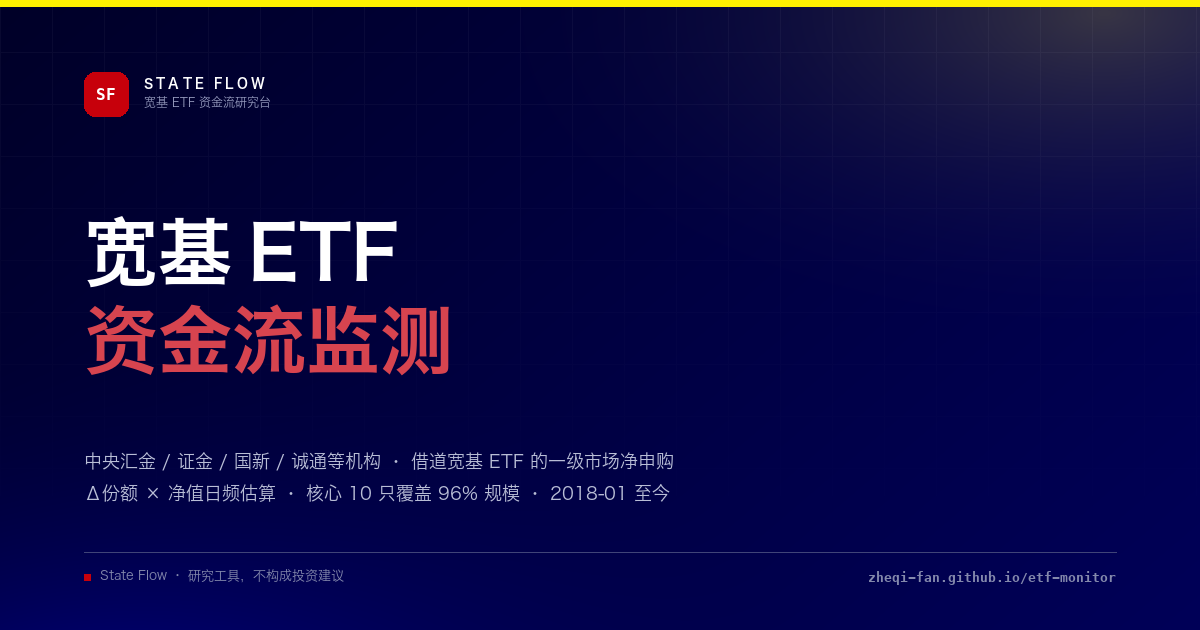
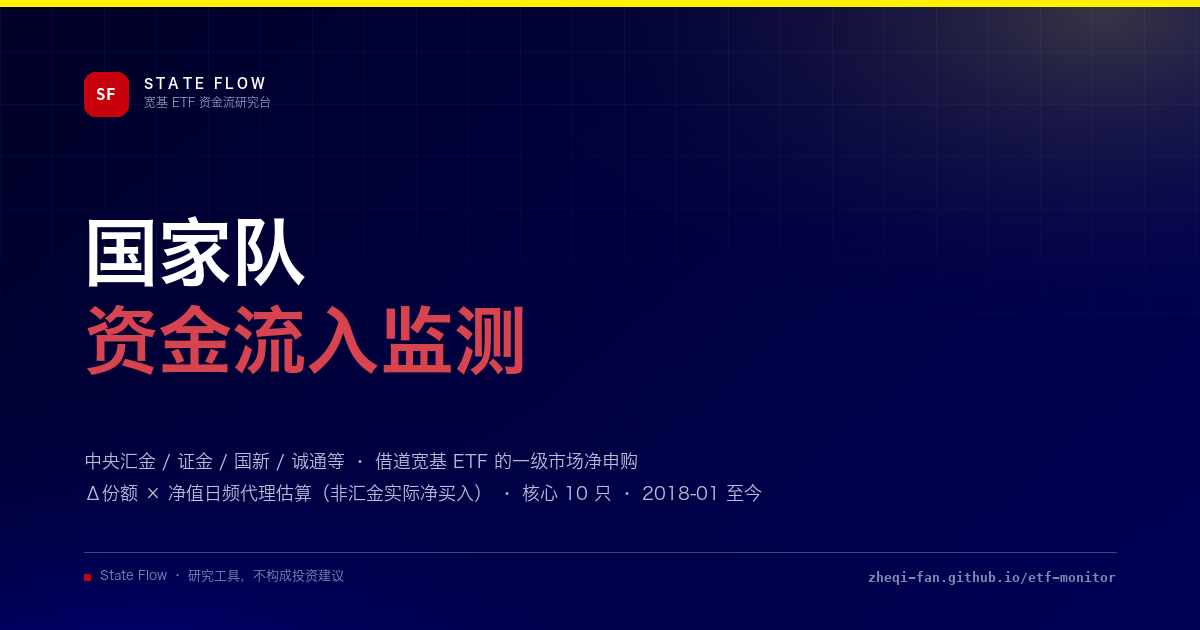
revert(home): 恢复「国家队资金流入」的表述，但把代理口径写进标题层
标题、H1、分享卡、页脚、README 回到「国家队资金流入监测」，
同时把「这是代理口径」放到读者第一眼就能看到的位置，而不是只藏在方法页。

## 表述思路

「国家队」是读者真正会用的词，不用反而增加理解成本。它的问题不在用词，
而在**把推断写成事实**：本页测的是 ETF 份额变动，识别不了持有人，
所以「国家队买入 X 亿」是一个不可证实的断言，而「宽基 ETF 净流入 X 亿」
是可证的。所以按「标题用统称、数据用口径名、结论用疑似」三层分开：

- 标题层：国家队资金流入监测（读者语言）
- 口径层：ETF 申购代理估算 · 非汇金实际净买入（一句话紧跟在标题/结论旁）
- 数据层：正文一律叫「宽基 ETF 净流入 / 核心池净申购」，不叫「国家队买入」
- 结论层：需要指认主体时用「疑似国家队进场」

## 具体改动

- index.html：title / og:title / twitter:title / description / H1（国家队 · 资金流入监测）/
  页脚 / 一句话结论旁的限定语（改为「ETF 申购代理口径 · 非汇金实际净买入」）
- 全站品牌副标题与浏览器标题后缀统一为「国家队资金流入监测」（7 个页面）
- 口径说明：把「中央汇金 / 证金 …大额进场」改成「所谓“国家队”（中央汇金 / 证金 / 国新 / 诚通等）」
- method.html 结论边界：补一句「国家队是媒体统称、不是法定主体；本页测份额变动、识别不了持有人」
- news_source.py 标签「大额机构」→「国家队」（正则本来就是 国家队）；
  app.js 的 TAG_CLS 保留旧 key，避免历史数据配色掉回默认
- tools/make_preview.py：重绘分享卡（国家队 / 资金流入监测 + 代理口径说明行），
  已重新生成 assets/preview.png（1200×630）
- README 标题与开头，加一条口径提醒

没有改动任何计算逻辑。

Changed region(s): [[0.185, 0.6937, 0.6167, 0.8143], [0.0617, 0.3317, 0.3392, 0.4524], [0.2467, 0.4825, 0.4625, 0.6032]]

diff --git a/index.html b/index.html
@@ -3,11 +3,11 @@
 <head>
 <meta charset="utf-8">
 <meta name="viewport" content="width=device-width,initial-scale=1">
-<title>ETF 资金流监测 · State Flow</title>
-<meta name="description" content="只看股票（指数）宽基 ETF：用份额变动×净值，日频跟踪中央汇金/证金等机构资金借道 ETF 的净申购。核心 10 只覆盖 96% 规模，含历史、信号与结构。">
+<title>国家队资金流入监测 · State Flow</title>
+<meta name="description" content="“国家队”资金流入监测：用宽基 ETF 份额变动×净值，日频估算中央汇金/证金/国新/诚通等机构借道 ETF 的一级市场净申购。这是代理口径，不等于汇金实际净买入。核心 10 只覆盖 96% 规模。">
 <meta name="theme-color" content="#000066">
 <meta property="og:type" content="website">
-<meta property="og:title" content="ETF 资金流监测 · State Flow">
+<meta property="og:title" content="国家队资金流入监测 · State Flow">
 <meta property="og:description" content="核心 10 只股票宽基 ETF，日频估算机构一级市场净申购；20 日滚动为主信号，附结构、溢价与历史分位。">
 <meta property="og:url" content="https://zheqi-fan.github.io/etf-monitor/">
 <meta property="og:site_name" content="State Flow">
@@ -16,7 +16,7 @@
 <meta property="og:image:width" content="1200">
 <meta property="og:image:height" content="630">
 <meta name="twitter:card" content="summary_large_image">
-<meta name="twitter:title" content="ETF 资金流监测 · State Flow">
+<meta name="twitter:title" content="国家队资金流入监测 · State Flow">
 <meta name="twitter:description" content="核心 10 只股票宽基 ETF，日频估算机构一级市场净申购；20 日滚动为主信号，附结构、溢价与历史分位。">
 <meta name="twitter:image" content="https://zheqi-fan.github.io/etf-monitor/assets/preview.png">
 <link rel="icon" href="assets/favicon.svg" type="image/svg+xml">
@@ -31,7 +31,7 @@
     <div class="hero-top">
       <div class="brand">
         <span class="brand-mark">SF</span>
-        <div><b>STATE FLOW</b><small>宽基 ETF 资金流研究台</small></div>
+        <div><b>STATE FLOW</b><small>国家队资金流入监测</small></div>
       </div>
       <div class="hero-meta">
         <span class="pill"><i class="dot"></i>数据截至 <b id="asof">—</b> 收盘</span>
@@ -42,7 +42,7 @@
     <div class="hero-main">
       <div class="hero-copy">
         <p class="eyebrow">Central Huijin · CSF · Broad-base Equity ETF Creation</p>
-        <h1>宽基 ETF<br><em>资金流监测</em></h1>
+        <h1>国家队<br><em>资金流入监测</em></h1>
       </div>
 
       <aside class="signal-card">
@@ -74,13 +74,13 @@
   <section class="takeaway" aria-labelledby="takeawayLabel">
     <span class="takeaway-label" id="takeawayLabel">一句话结论</span>
     <p id="takeawayText">加载中…</p>
-    <span class="takeaway-note">代理指标，非汇金实际净买入</span>
+    <span class="takeaway-note">ETF 申购代理口径 · 非汇金实际净买入</span>
   </section>
 
   <section class="brief" aria-label="指标说明">
     <span class="brief-label">口径</span>
     <p class="brief-text">
-      中央汇金 / 证金 / 国新 / 诚通等机构大额进场通常走 ETF <b>一级市场申购</b>，这会直接抬高基金总份额。本页用
+      所谓“国家队”（中央汇金 / 证金 / 国新 / 诚通等）大额进场通常走 ETF <b>一级市场申购</b>，这会直接抬高基金总份额。本页用
       <b>Δ份额 × 净值</b> 日频估算“新钱”规模，并叠加份额、溢价与市场成交校验。<br>
       只看 <b>股票（指数）宽基 ETF</b> · 核心 <b id="coverCount">10</b> 只覆盖 96% 规模 · <b id="rangeText">2018-01 至今</b>
     </p>
@@ -281,13 +281,13 @@
     <details class="events">
       <summary>新闻线索 · 新浪财经 7×24 自动筛选（点击折叠）</summary>
       <div class="evt-list" id="newsList"></div>
-      <p class="evt-note">按相关性打分筛选：<em class="ntag t0">汇金/证金/大额机构</em><em class="ntag t1">核心池/宽基ETF/申赎</em><em class="ntag t2">货币宽松/监管</em>；无关条目直接丢弃。仅作线索参考，未核实为官方事件。</p>
+      <p class="evt-note">按相关性打分筛选：<em class="ntag t0">汇金/证金/国家队</em><em class="ntag t1">核心池/宽基ETF/申赎</em><em class="ntag t2">货币宽松/监管</em>；无关条目直接丢弃。仅作线索参考，未核实为官方事件。</p>
     </details>
   </section>
 
   <footer>
     <div>
-      <b>State Flow · ETF 资金流监测</b><br>
+      <b>State Flow · 国家队资金流入监测</b><br>
       本页为研究工具，不构成任何投资建议。数据可能存在修订、缺失或口径差异，请以交易所及基金公司公告为准。
       <div class="build">版本 <span id="version">—</span> · 主源 <span id="dataline">Tushare</span> · 静态页面，无外部追踪脚本</div>
     </div>

diff --git a/method.html b/method.html
@@ -3,7 +3,7 @@
 <head>
 <meta charset="utf-8">
 <meta name="viewport" content="width=device-width,initial-scale=1">
-<title>技术细节 · ETF 资金流监测</title>
+<title>技术细节 · 国家队资金流入监测</title>
 <meta name="description" content="口径与公式、数据来源、核心池选取逻辑，以及这个代理指标的已知边界。">
 <meta name="theme-color" content="#000066">
 <meta property="og:type" content="article">
@@ -29,7 +29,7 @@
     <div class="hero-top">
       <div class="brand">
         <span class="brand-mark">SF</span>
-        <div><b>STATE FLOW</b><small>宽基 ETF 资金流研究台</small></div>
+        <div><b>STATE FLOW</b><small>国家队资金流入监测</small></div>
       </div>
       <div class="hero-meta">
         <a class="pill ghost" href="index.html">&#8592; 返回看板</a>
@@ -106,7 +106,7 @@
     </div>
     <div class="caveat">
       <div style="font-size:18px;line-height:1.2">⚠</div>
-      <div><b>结论边界：</b>这是“疑似大额机构申购”的高频代理，不是汇金实际净买入。最可靠的用法是三层验证——① 核心池 20 日净流入异常放大；② 结构上宽基占绝对多数；③ 溢价与成交同步印证。三者共振时，推断置信度最高。</div>
+      <div><b>结论边界：</b>“国家队”是媒体对这些机构的一个统称，不是法定主体；本页测的是 <b>ETF 份额变动</b>，识别不了持有人。所以「国家队资金流入」是<b>疑似申购的高频代理</b>，不是汇金实际净买入。最可靠的用法是三层验证——① 核心池 20 日净流入异常放大；② 结构上宽基占绝对多数；③ 溢价与成交同步印证。三者共振时，推断置信度最高。</div>
     </div>
   </section>
 

diff --git a/fomc.html b/fomc.html
@@ -3,7 +3,7 @@
 <head>
 <meta charset="utf-8">
 <meta name="viewport" content="width=device-width,initial-scale=1">
-<title>FOMC 事件日历 · ETF 资金流监测</title>
+<title>FOMC 事件日历 · 国家队资金流入监测</title>
 <meta name="description" content="FOMC 会议日程、当前目标利率，以及历次决议后 A 股与港股（恒生指数/恒生科技）的反应，含中美利率对照。数据来自美联储官网。">
 <meta name="theme-color" content="#000066">
 <meta property="og:type" content="article">
@@ -27,7 +27,7 @@
     <div class="hero-top">
       <div class="brand">
         <span class="brand-mark">SF</span>
-        <div><b>STATE FLOW</b><small>宽基 ETF 资金流研究台</small></div>
+        <div><b>STATE FLOW</b><small>国家队资金流入监测</small></div>
       </div>
       <div class="hero-meta">
         <a class="pill ghost" href="index.html">&#8592; 返回看板</a>

diff --git a/hk.html b/hk.html
@@ -3,7 +3,7 @@
 <head>
 <meta charset="utf-8">
 <meta name="viewport" content="width=device-width,initial-scale=1">
-<title>港股与南向资金 · ETF 资金流监测</title>
+<title>港股与南向资金 · 国家队资金流入监测</title>
 <meta name="description" content="恒生指数、恒生科技与港股通（南向）资金：日频净买入、累计净流入、占港股成交比重、十大成交股与 AH 溢价。">
 <meta name="theme-color" content="#000066">
 <meta property="og:type" content="article">
@@ -27,7 +27,7 @@
     <div class="hero-top">
       <div class="brand">
         <span class="brand-mark">SF</span>
-        <div><b>STATE FLOW</b><small>宽基 ETF 资金流研究台</small></div>
+        <div><b>STATE FLOW</b><small>国家队资金流入监测</small></div>
       </div>
       <div class="hero-meta">
         <a class="pill ghost" href="index.html">&#8592; 返回看板</a>

diff --git a/crowding.html b/crowding.html
@@ -3,7 +3,7 @@
 <head>
 <meta charset="utf-8">
 <meta name="viewport" content="width=device-width,initial-scale=1">
-<title>拥挤度与头寸 · ETF 资金流监测</title>
+<title>拥挤度与头寸 · 国家队资金流入监测</title>
 <meta name="description" content="核心池 ETF 的融资/融券余额、期货主力持仓量与全市场两融余额，用于判断杠杆与对冲盘的拥挤程度。">
 <meta name="theme-color" content="#000066">
 <meta property="og:type" content="article">
@@ -27,7 +27,7 @@
     <div class="hero-top">
       <div class="brand">
         <span class="brand-mark">SF</span>
-        <div><b>STATE FLOW</b><small>宽基 ETF 资金流研究台</small></div>
+        <div><b>STATE FLOW</b><small>国家队资金流入监测</small></div>
       </div>
       <div class="hero-meta">
         <a class="pill ghost" href="index.html">&#8592; 返回看板</a>

diff --git a/econ.html b/econ.html
@@ -3,7 +3,7 @@
 <head>
 <meta charset="utf-8">
 <meta name="viewport" content="width=device-width,initial-scale=1">
-<title>经济数据日历 · ETF 资金流监测</title>
+<title>经济数据日历 · 国家队资金流入监测</title>
 <meta name="description" content="美国核心经济数据日历：FOMC、非农、CPI、PPI、核心PCE、GDP、零售销售、ISM，含发布时间与预期前值。">
 <meta name="theme-color" content="#000066">
 <meta property="og:type" content="article">
@@ -27,7 +27,7 @@
     <div class="hero-top">
       <div class="brand">
         <span class="brand-mark">SF</span>
-        <div><b>STATE FLOW</b><small>宽基 ETF 资金流研究台</small></div>
+        <div><b>STATE FLOW</b><small>国家队资金流入监测</small></div>
       </div>
       <div class="hero-meta">
         <a class="pill ghost" href="index.html">&#8592; 返回看板</a>

diff --git a/basis.html b/basis.html
@@ -3,7 +3,7 @@
 <head>
 <meta charset="utf-8">
 <meta name="viewport" content="width=device-width,initial-scale=1">
-<title>基差与对冲成本 · ETF 资金流监测</title>
+<title>基差与对冲成本 · 国家队资金流入监测</title>
 <meta name="description" content="IF / IH / IC / IM 主力合约年化基差、期限结构与 IM−IF 价差，用于判断 ETF 申购带来的对冲需求。">
 <meta name="theme-color" content="#000066">
 <meta property="og:type" content="article">
@@ -27,7 +27,7 @@
     <div class="hero-top">
       <div class="brand">
         <span class="brand-mark">SF</span>
-        <div><b>STATE FLOW</b><small>宽基 ETF 资金流研究台</small></div>
+        <div><b>STATE FLOW</b><small>国家队资金流入监测</small></div>
       </div>
       <div class="hero-meta">
         <a class="pill ghost" href="index.html">&#8592; 返回看板</a>

diff --git a/assets/app.js b/assets/app.js
@@ -721,7 +721,7 @@
     `<div class="evt"><time>${e.date}</time><div><b>${e.short}</b><span>${e.title}</span></div></div>`).join('');
 
   const news = D.meta.news || [];
-  const TAG_CLS = { '汇金': 't0', '证金': 't0', '大额机构': 't0', '平准': 't0', '国新诚通': 't0',
+  const TAG_CLS = { '汇金': 't0', '证金': 't0', '国家队': 't0', '大额机构': 't0', '平准': 't0', '国新诚通': 't0',
                     '核心池': 't1', '宽基ETF': 't1', 'ETF成交': 't1', '申赎': 't1',
                     '货币宽松': 't2', '监管': 't2' };
   $('#newsList').innerHTML = news.length

diff --git a/tools/make_preview.py b/tools/make_preview.py
@@ -96,15 +96,14 @@ def main():
 
     # 主标题
     f_h1 = font(F_BOLD, 74)
-    d.text((84, 214), "宽基", font=f_h1, fill=WHITE)
-    d.text((84 + d.textlength("宽基", font=f_h1) + 16, 214), "ETF", font=f_h1, fill=WHITE)
-    d.text((84, 302), "资金流监测", font=f_h1, fill=RED_HERO)
+    d.text((84, 214), "国家队", font=f_h1, fill=WHITE)
+    d.text((84, 302), "资金流入监测", font=f_h1, fill=RED_HERO)
 
     # 导语
     lede = (185, 190, 214)
-    d.text((84, 452), "中央汇金 / 证金 / 国新 / 诚通等机构 · 借道宽基 ETF 的一级市场净申购",
+    d.text((84, 452), "中央汇金 / 证金 / 国新 / 诚通等 · 借道宽基 ETF 的一级市场净申购",
            font=font(F_REG, 18), fill=lede)
-    d.text((84, 484), "Δ份额 × 净值日频估算 · 核心 10 只覆盖 96% 规模 · 2018-01 至今",
+    d.text((84, 484), "Δ份额 × 净值日频代理估算（非汇金实际净买入） · 核心 10 只 · 2018-01 至今",
            font=font(F_REG, 18), fill=lede)
 
     # 页脚

diff --git a/news_source.py b/news_source.py
@@ -38,7 +38,7 @@ RULES = [
     # P0 机构主体：极少出现，但一旦出现价值最高
     ("汇金", r"中央汇金|汇金公司|汇金投资|汇金资管|汇金资产|汇金系|汇金增持", 14),
     ("证金", r"证金公司|中国证金|证金资管|证金增持|中国证券金融", 12),
-    ("大额机构", r"国家队", 12),
+    ("国家队", r"国家队", 12),
     ("平准", r"平准基金|类平准", 14),
     ("国新诚通", r"国新投资|国新控股|诚通金控|诚旸投资", 10),
 
@@ -89,7 +89,7 @@ def score(text):
     if _ROUTINE_RE.search(text):
         return 0, []
     if _NARROW_RE.search(text) and not any(
-            t in tags for t in ("核心池", "宽基ETF", "汇金", "证金", "大额机构", "平准", "国新诚通")):
+            t in tags for t in ("核心池", "宽基ETF", "汇金", "证金", "国家队", "平准", "国新诚通")):
         return 0, []
     return sum(p for p, _ in hits), tags
 

diff --git a/README.md b/README.md
@@ -1,6 +1,8 @@
-# ETF 资金流监测 · State Flow
+# 国家队资金流入监测 · State Flow
 
-一个每天自动更新的单页看板：用 **ETF 总份额变动 × 净值**，估算中央汇金 / 证金等机构借道宽基 ETF 的净申购，并给出历史曲线、分指数结构、规模、溢价与托底强度。
+一个每天自动更新的单页看板：用 **宽基 ETF 总份额变动 × 净值**，日频估算所谓“国家队”（中央汇金 / 证金 / 国新 / 诚通等）借道 ETF 的一级市场净申购，并给出历史曲线、分指数结构、规模、溢价与托底强度。
+
+> **口径提醒**：「国家队」是媒体统称、不是法定主体；本页测的是基金份额变动，识别不了持有人。所以这里的数字是**疑似申购的代理估算**，不等于汇金实际净买入。
 
 > 打开 `index.html` 即可查看（纯静态，不需要服务器、不需要联网）。
 
